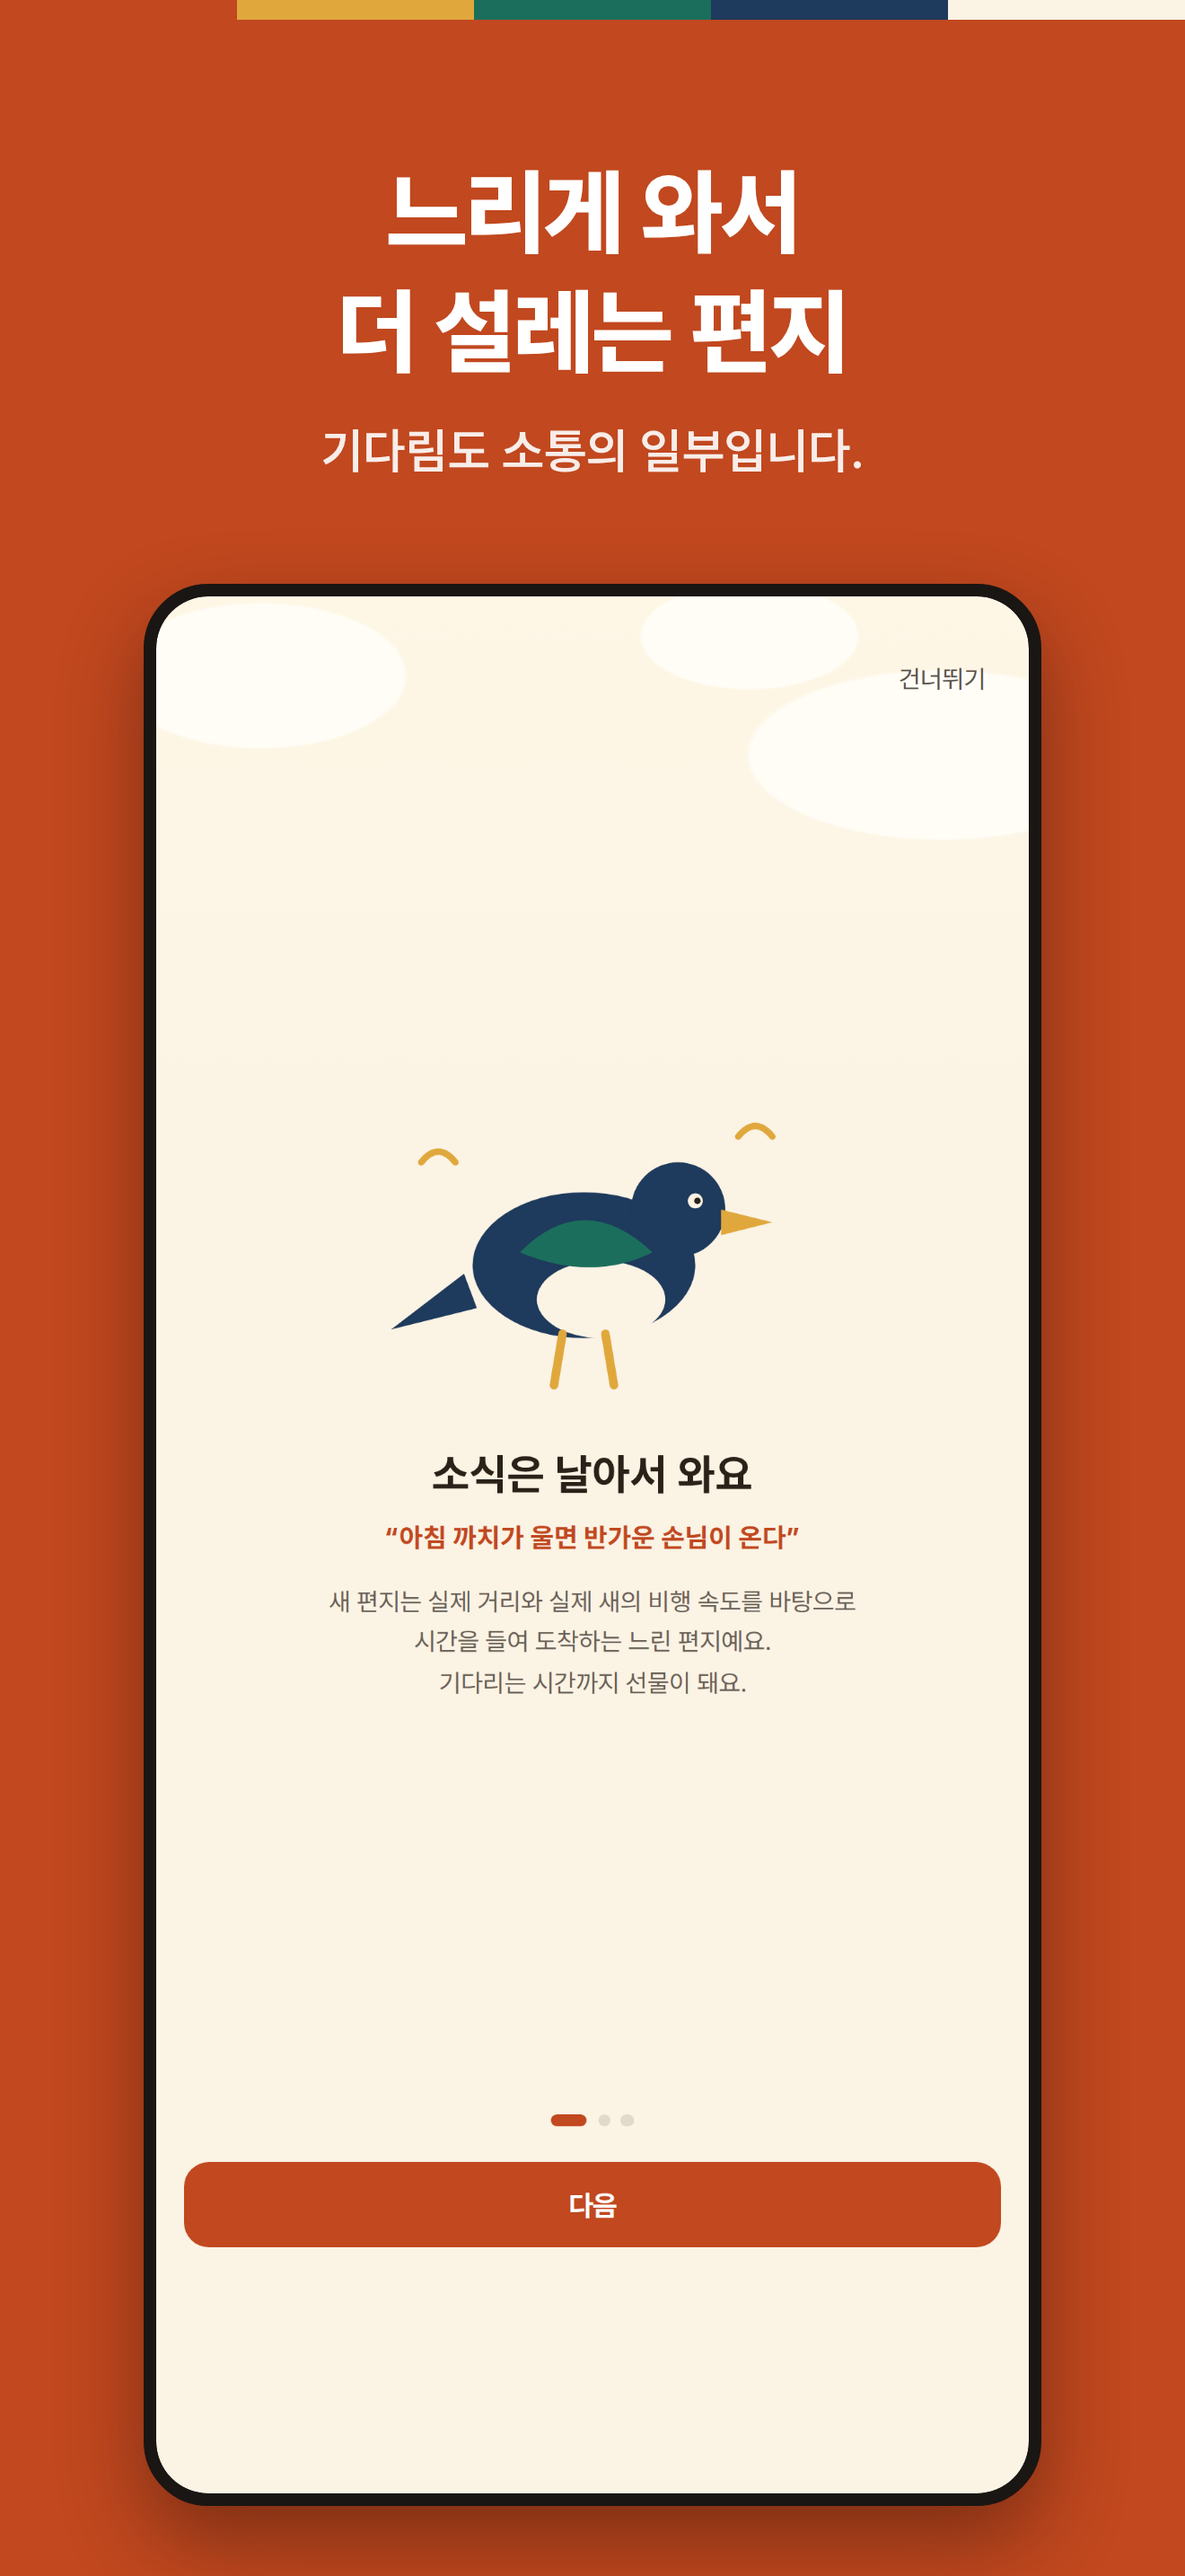
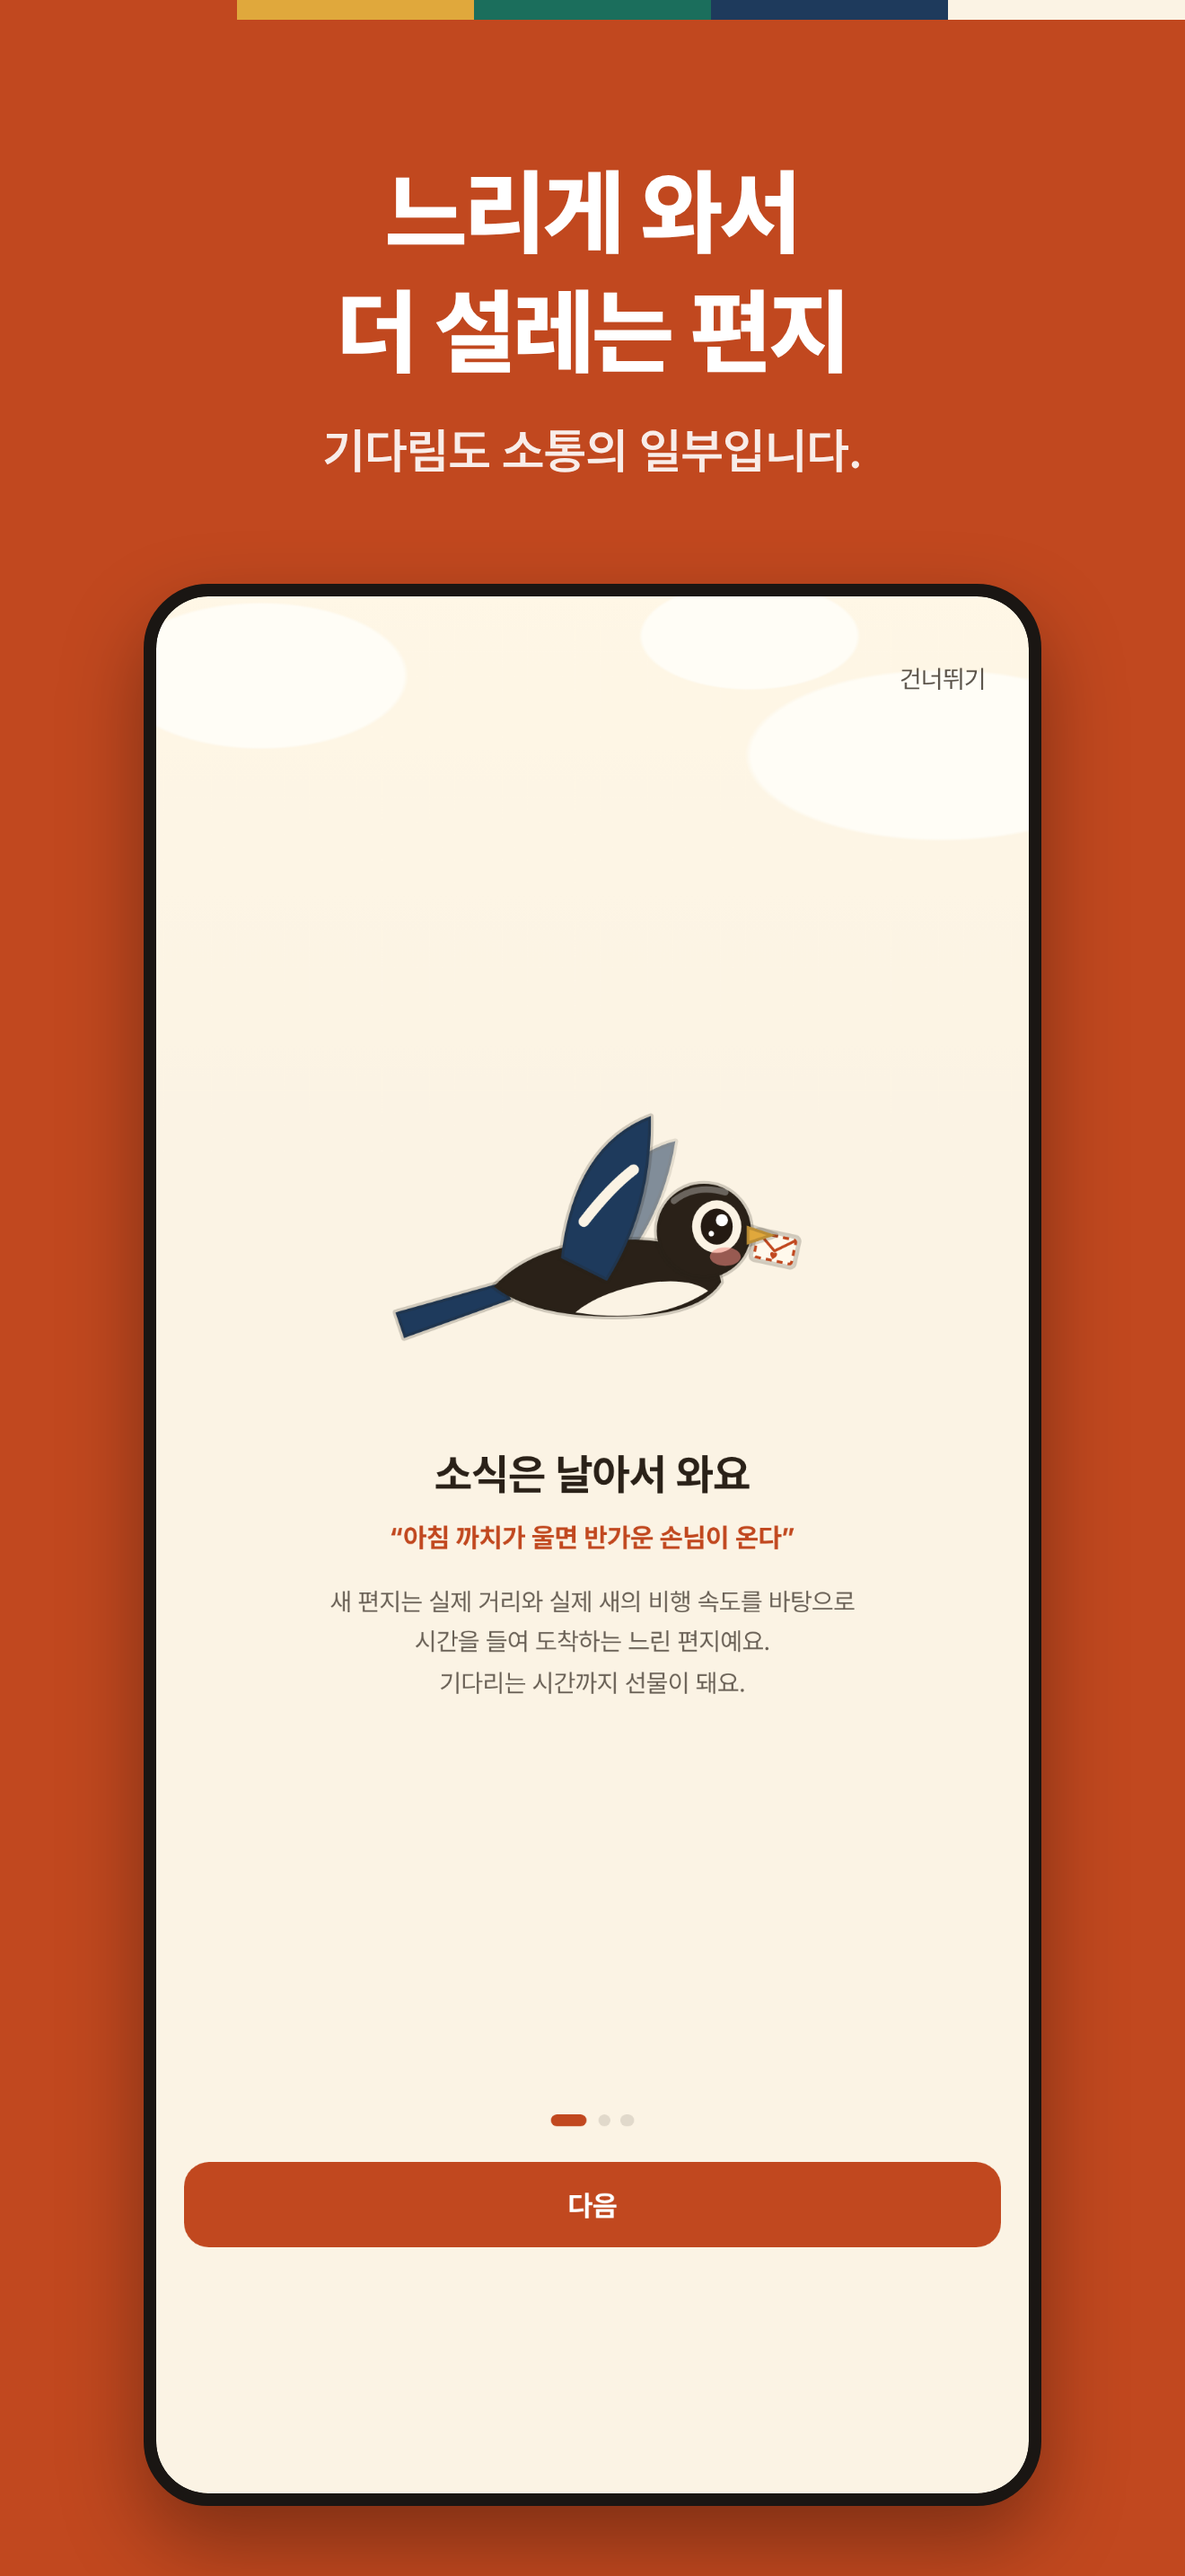
새 고르기 그림 크게·첫 소개 까치 나는 모습·스토어 화면 사진 새 3종 (#142)
* 처음 쓰기 편하게: 이름 화면 생략, 받는 곳 도시 버튼 한 번에, 첫 홈 카카오톡 초대·첫 편지 뒤 알림 묻기

Claude-Session: https://claude.ai/code/session_01GA1ocwaYjo7gRcQeBhuum6

* 받는 사람 흐름: 링크로 보고 로그인 한 번으로 내 편지함에 받기, 보낸 직후 카카오톡·문자로 알리기 창

- 임시 계정으로는 받는 사람 등록을 하지 않음(앱 깔고 카카오 로그인하면 편지가 없던 문제)
- 편지 화면에 '카카오로 받기'(구글·애플도), 받은 뒤 스토어 앱 받기 버튼
- 로그인 전에 본 편지는 기억했다가 로그인하면 홈에서 받음
- 앱 없는 사람에게 보낸 직후 한 번 '알려 주세요' 창(카카오톡·문자)

Claude-Session: https://claude.ai/code/session_01GA1ocwaYjo7gRcQeBhuum6

* 편지 링크 화면: 스토어 앱이 나오면 홈 화면 추가 카드 대신 앱 받기 하나만

Claude-Session: https://claude.ai/code/session_01GA1ocwaYjo7gRcQeBhuum6

* 첫 화면: 로그인 아래 '홈 화면에 추가'·'스토어에서 받기' 버튼, 애플 로그인은 아이폰에서만

Claude-Session: https://claude.ai/code/session_01GA1ocwaYjo7gRcQeBhuum6

* 기록: 받는 사람 흐름·첫 화면 버튼·처음 쓰기 편하게 반영

Claude-Session: https://claude.ai/code/session_01GA1ocwaYjo7gRcQeBhuum6

* 첫 화면: 스토어 받기 버튼을 폰에서 항상 보이게(출시 전엔 '곧 나와요' 안내)

Claude-Session: https://claude.ai/code/session_01GA1ocwaYjo7gRcQeBhuum6

* 안드로이드 스토어 버튼: 플레이 스토어 앱을 바로 여는 intent 주소(못 열면 웹 플레이로)

Claude-Session: https://claude.ai/code/session_01GA1ocwaYjo7gRcQeBhuum6

* 기록: 펜팔 유료(수락 시 결제)·성별 질문과 답

Claude-Session: https://claude.ai/code/session_01GA1ocwaYjo7gRcQeBhuum6

* 펜팔 우표 기획과 계산(첫 편지만·하루 1통 무료·답장 없으면 돌려줌)

Claude-Session: https://claude.ai/code/session_01GA1ocwaYjo7gRcQeBhuum6

* 아이폰 Firebase 설정 파일 추가, 구글 로그인 주소가 없어도 빌드되게

Claude-Session: https://claude.ai/code/session_01GA1ocwaYjo7gRcQeBhuum6

* 아이폰 구글 로그인용 클라이언트 ID를 Firebase 설정 파일에 추가
[…]

diff --git a/src/components/Illustrations.tsx b/src/components/Illustrations.tsx
@@ -1,18 +1,11 @@
 /** 온보딩용 간단한 SVG 일러스트. 나중에 디자이너 에셋으로 교체 가능 */
+import { CuteArt } from "./CuteBird";
 
+/** 온보딩·소개 화면의 까치: 앱 아이콘과 같은 "편지를 문 나는 까치"(2026-11-01 귀여운 새 그림) */
 export function Magpie() {
   return (
-    <svg viewBox="0 0 200 160" role="img" aria-label="까치 일러스트" className="illust">
-      <path d="M40 92 L6 118 L46 108 Z" fill="#1E3A5C" />
-      <ellipse cx="96" cy="88" rx="52" ry="34" fill="#1E3A5C" />
-      <ellipse cx="104" cy="104" rx="30" ry="18" fill="#FBF3E4" />
-      <path d="M66 82 Q96 52 128 82 Q100 96 66 82 Z" fill="#1B6E5C" />
-      <circle cx="140" cy="62" r="22" fill="#1E3A5C" />
-      <circle cx="148" cy="58" r="3.5" fill="#FBF3E4" />
-      <circle cx="149" cy="58" r="1.5" fill="#2A2118" />
-      <path d="M160 62 L184 68 L160 74 Z" fill="#E0A83C" />
-      <path d="M86 120 L82 144 M106 120 L110 144" stroke="#E0A83C" strokeWidth="4" strokeLinecap="round" />
-      <path d="M20 40 q8 -10 16 0 M168 28 q8 -10 16 0" stroke="#E0A83C" strokeWidth="3" fill="none" strokeLinecap="round" />
+    <svg viewBox="0 0 200 160" role="img" aria-label="편지를 문 까치 일러스트" className="illust">
+      <CuteArt id="magpie" variant="C" letter flap />
     </svg>
   );
 }

diff --git a/src/app/globals.css b/src/app/globals.css
@@ -776,7 +776,7 @@ button.ch-map .map { width: 100%; height: 100%; aspect-ratio: auto; }
 .ch-birds { display: grid; grid-template-columns: repeat(3, minmax(0, 1fr)); gap: 8px; padding: 4px 0 8px; }
 .ch-birds::-webkit-scrollbar { display: none; }
 .ch-bird { min-width: 0; display: flex; flex-direction: column; align-items: center; gap: 0; padding: 4px 1px 5px; border-radius: 14px; border: 2px solid transparent; background: var(--bg); color: var(--text); font: inherit; cursor: pointer; scroll-snap-align: start; }
-.ch-bird b { font-size: 13px; white-space: nowrap; } .ch-bird small { font-size: 11px; opacity: .65; white-space: nowrap; letter-spacing: -.3px; }
+.ch-bird b { font-size: 15px; white-space: nowrap; } .ch-bird small { font-size: 12px; opacity: .65; white-space: nowrap; letter-spacing: -.3px; }
 .ch-bird.on { border-color: var(--dahong); background: var(--tint-hot); }
 .ch-bird.on small { opacity: 1; color: var(--dahong); font-weight: 700; }
 .samebtn { display: block; margin: 8px auto 0; font-size: 14px; opacity: .7; }

diff --git a/src/components/RoomComposer.tsx b/src/components/RoomComposer.tsx
@@ -290,7 +290,7 @@ export default function RoomComposer({ threadKey, name, toUid, guessPlace, frien
         {[...BIRDS_SLOW_TO_FAST].reverse().map((b) => (
           <button key={b.id} type="button" role="radio" aria-checked={b.id === birdId} className={`ch-bird ${b.id === birdId ? "on" : ""}`}
             onClick={() => { setBirdId(b.id); write(LAST_BIRD, b.id); }}>
-            <BirdIcon id={b.id} size={36} letter={b.id === birdId} />
+            <BirdIcon id={b.id} size={54} letter={b.id === birdId} />
             <b>{b.name}</b>
             <small>{route ? formatMinutes(Math.max(1, Math.round(travelMinutes(b, route.km) / speed.current))) : `시속 ${b.kmh}km`}</small>
           </button>
